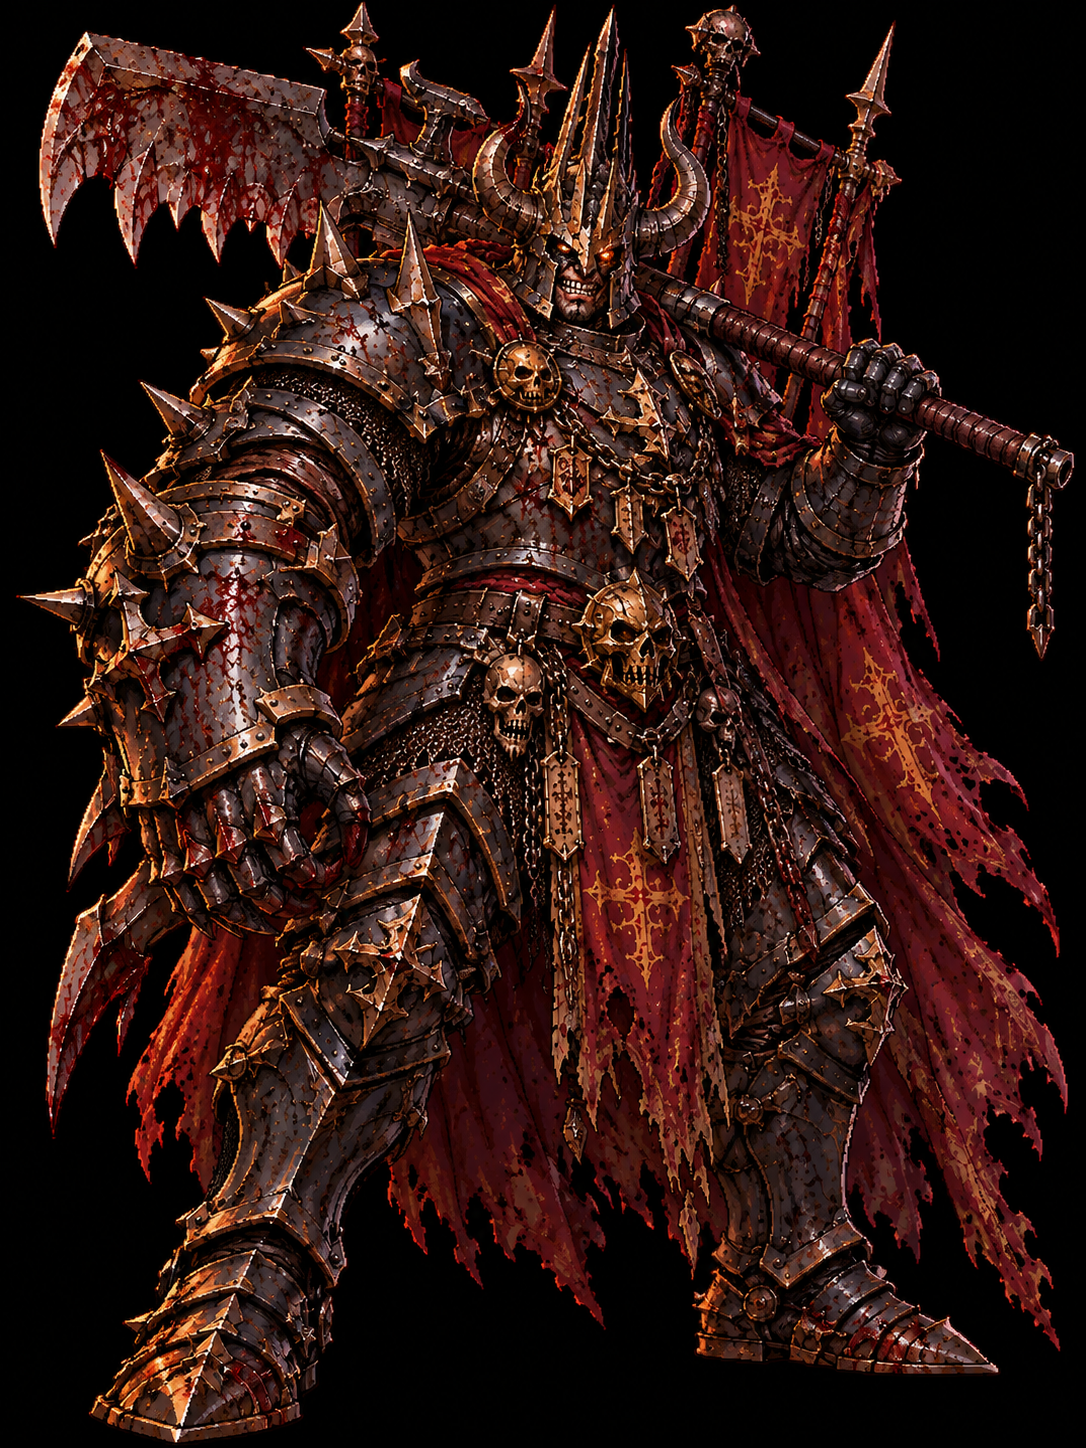
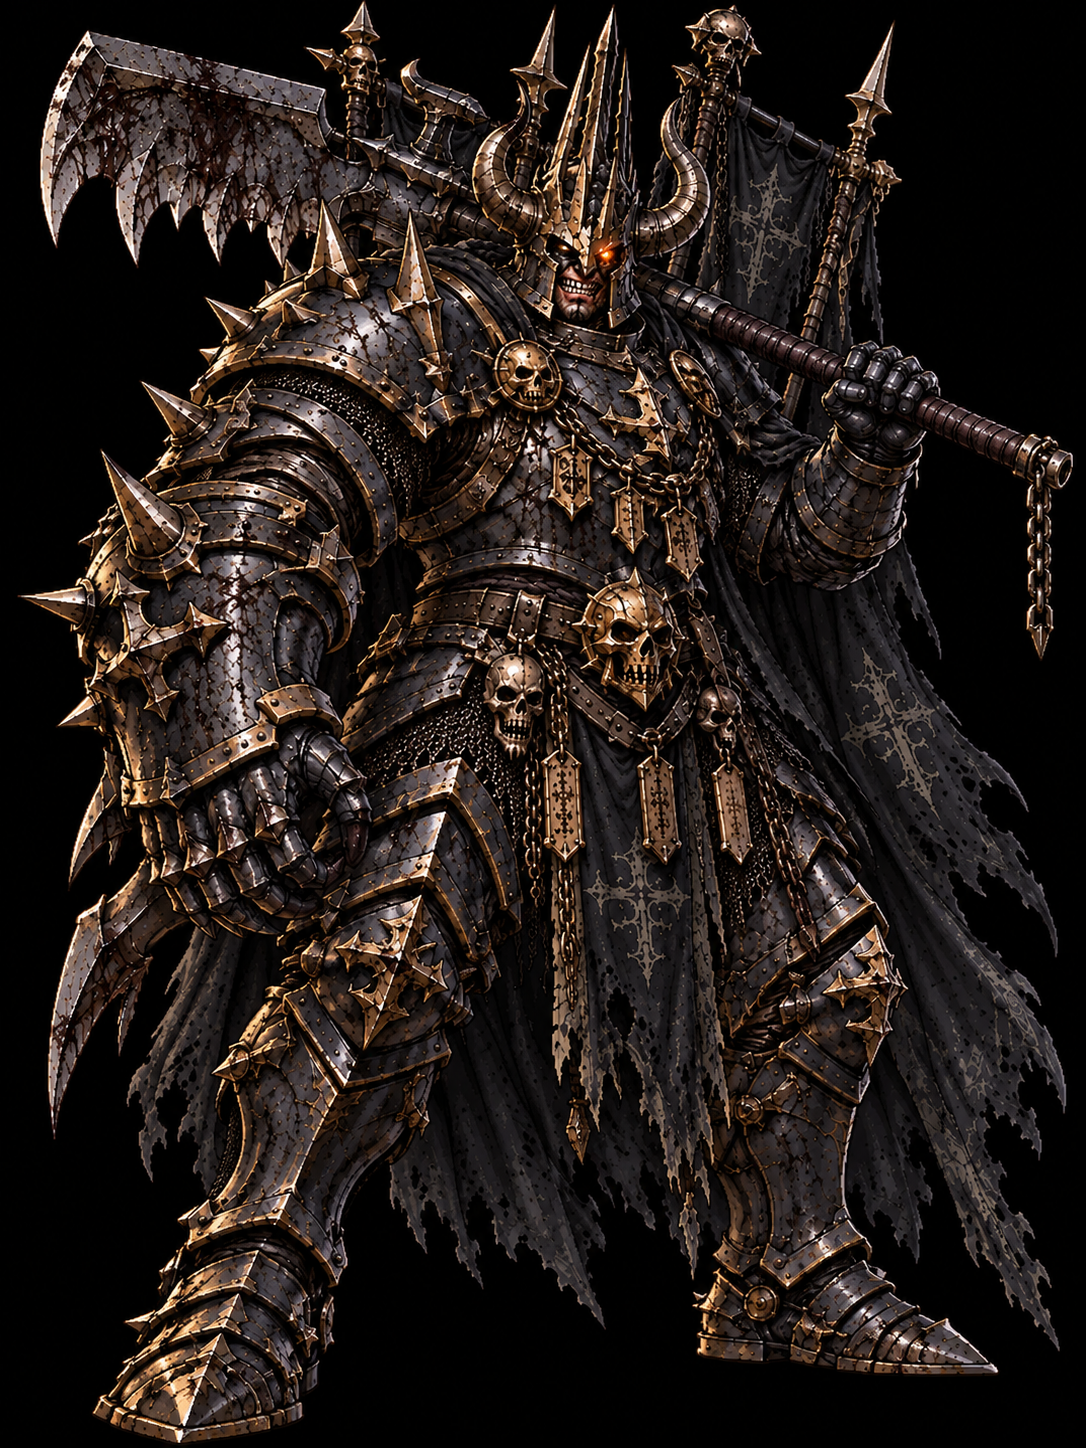
Boss groundwork: the Warlord's stats, moves and outsize frames (waiting on four strips); stage boss stays Kragg until then; hand-off notes

diff --git a/src/data/enemies.js b/src/data/enemies.js
@@ -1,4 +1,4 @@
-// enemies.js â€” Enemy stats, moves and AI tuning. Same stat format as characters.js
+// enemies.js â€” Enemy stats, moves and AI tuning. Same stat format as characters.js
 // (see the guide at the top of that file), plus:
 //
 //   art              which pixel-art rig draws it (view/enemyArt.js)
@@ -487,6 +487,73 @@ export const ENEMIES = {
       blockChance: 0.55, blockHold: [40, 80],
       specialEvery: 36,
       specials: [{ press: 'special1', min: 150, max: 260, chance: 0.4 }],
+    },
+  },
+
+  // =========================================================== 7. THE WARLORD
+  // Warlord-General of the Ashen Legion, the boss at the end of the road: nearly twice a
+  // man's height, a spiked gauntlet the size of a shield and a cleaver-glaive. Slow, but
+  // everything he does reaches far and hits like a falling wall. (Painted strips only:
+  // data/enemyStrips.js; cell: 2 = his frames are cut twice the usual size.)
+  warlord: {
+    ...BASE,
+    id: 'warlord',
+    name: 'Warlord Malgor',
+    title: 'General of the Ashen Legion',
+    art: 'gladiator', // (the hidden doll underneath: never drawn)
+    cell: 2,
+    body: { w: 92, h: 184 },
+    look: { color: 0x2a2a30, accent: 0xb08a4a, skin: 0x8a6a58 },
+
+    maxHealth: 240, maxStamina: 200,
+    walkSpeed: 84, depthSpeed: 62,
+    meleeMult: 1.0,
+    blockReduction: 0.9, guardEfficiency: 0.45,
+    knockdownFrames: 46, getupFrames: 26, staggerFrames: 40,
+
+    moves: {
+      light1: { // Gauntlet Backhand
+        anim: 'slash', cut: 'blunt',
+        startup: 13, active: 4, recovery: 18,
+        damage: 13, hitstun: 24, hitstop: 7, shake: 3,
+        knockback: { x: 200, y: 0 }, guardDamage: 18, lunge: 60,
+        hitbox: { x: 16, y: 60, w: 104, h: 76 },
+        chains: [{ button: 'attack', next: 'light2', from: 12, to: 34 }],
+      },
+      light2: { // Glaive Sweep: wide and level, clears the lane
+        anim: 'slash', cut: 'cleave',
+        startup: 15, active: 4, recovery: 24,
+        damage: 16, hitstun: 26, hitstop: 8, shake: 5,
+        knockback: { x: 300, y: 260 }, knockdown: true, guardDamage: 24, lunge: 70,
+        hitbox: { x: 10, y: 50, w: 156, h: 70, depth: 26 },
+      },
+      heavy: { // Headsman's Fall: the glaive straight down
+        anim: 'chop', cut: 'chop',
+        startup: 38, active: 4, recovery: 34,
+        damage: 32, hitstun: 32, hitstop: 12, shake: 9,
+        knockback: { x: 340, y: 380 }, knockdown: true, breaksGuard: true,
+        guardDamage: 50, lunge: 90,
+        hitbox: { x: 8, y: 0, w: 138, h: 176 },
+      },
+      special1: { // Bull Charge: the spiked shoulder, the length of the room
+        anim: 'bash', cut: 'blunt',
+        startup: 26, active: 18, recovery: 30,
+        damage: 18, hitstun: 38, hitstop: 9, shake: 7,
+        knockback: { x: 460, y: 260 }, knockdown: true, breaksGuard: true,
+        guardDamage: 50, lunge: 430,
+        hitbox: { x: 20, y: 20, w: 74, h: 150 },
+      },
+    },
+
+    ai: {
+      attackRange: 124, minRange: 60, alignZ: 14,
+      waitRange: 260, maxCrowd: 2,
+      threatRange: 200,
+      attackCooldown: [40, 85],
+      heavyChance: 0.3, comboChance: 0.5, comboLength: 1,
+      blockChance: 0.3, blockHold: [30, 60],
+      specialEvery: 30,
+      specials: [{ press: 'special1', min: 200, max: 420, chance: 0.5 }],
     },
   },
 };

diff --git a/src/scenes/BootScene.js b/src/scenes/BootScene.js
@@ -153,13 +153,16 @@ export class BootScene extends Phaser.Scene {
     const sheets = {};
     for (const [id, strips] of Object.entries(ENEMY_STRIPS)) {
       const target = Math.round((ENEMIES[id]?.body.h ?? 110) * 1.07); // Ulric: 108 body -> 116 art
+      const cell = ENEMIES[id]?.cell ?? 1;
       const have = new Set();
       let fw = 0; let fh = 0;
       for (const [name, s] of Object.entries(strips)) {
         const img = src(`estrip-${id}-${name}`);
         if (!img) continue;
         try {
-          const out = await this.cut(img, { target, ...s, res: RES }, null);
+          // (cell: an outsize enemy's frames are cut that many times the usual size, at
+          //  the same detail per pixel, so he fits his frame and stays as sharp as the rest)
+          const out = await this.cut(img, { target: target / cell, ...s, res: RES * cell }, null);
           const tk = `enemy-${id}-${name}`;
           if (this.textures.exists(tk)) this.textures.remove(tk);
           const tex = this.textures.addCanvas(tk, out.canvas);
@@ -181,7 +184,7 @@ export class BootScene extends Phaser.Scene {
       for (const side of ['B', 'F', 'N']) {
         if (have.has(`flee${side}`) && have.has(`cower${side}`)) scared[side] = scaredAnims(side);
       }
-      sheets[id] = { key: `enemy-${id}`, anims, scared, res: RES, fw, fh, ax: FRAME.AX * RES, ay: FRAME.AY * RES };
+      sheets[id] = { key: `enemy-${id}`, anims, scared, res: RES, fw, fh, ax: FRAME.AX * RES * cell, ay: FRAME.AY * RES * cell };
     }
     return sheets;
   }
@@ -214,7 +217,7 @@ export class BootScene extends Phaser.Scene {
       const anims = {};
       for (const [k, a] of Object.entries(HERO_ANIMS[id])) if (!a.needs || a.needs.every((n) => have.has(n))) anims[k] = a;
       if (anims.idleStrip) { anims.idle = anims.idleStrip; delete anims.idleStrip; }
-      sheets[id] = { key: `hero-${id}`, anims, res: RES, fw, fh, ax: FRAME.AX * RES, ay: FRAME.AY * RES };
+      sheets[id] = { key: `hero-${id}`, anims, res: RES, fw, fh, ax: FRAME.AX * RES * cell, ay: FRAME.AY * RES * cell };
     }
     return sheets;
   }

diff --git a/src/data/stage.js b/src/data/stage.js
@@ -10,7 +10,7 @@
 //   3 THE BLOODY NAVE       swinging pendulum blades over their lanes;  (hazard 2)
 //                           maim-and-execute runners; a cracked wall hides a shrine (secret)
 //   4 THE OSSUARY           fire AND blades, elites; urns hide a relic   (combination)
-//   5 THRONE OF THE OATHBREAKER   the boss: Pitlord Kragg, the Oathbreaker
+//   5 THRONE OF THE OATHBREAKER   the boss: Warlord Malgor, the Oathbreaker (Pitlord Kragg comes when he rages)
 //
 // Positions are in world px. z = depth on the floor (282 back .. 520 front: SETTINGS.world).
 // waves: line-ups spawned one after another (the next when the last is dead).
@@ -87,7 +87,7 @@ export const STAGE = {
       id: 'throne', name: 'THRONE OF THE OATHBREAKER', x0: 4600, x1: 5600, ground: 'cathedral',
       light: 0xff3030, mood: 0.32,
       objective: 'Kill Pitlord Kragg',
-      boss: { type: 'gladiator', name: 'Pitlord Kragg, the Oathbreaker', health: 4, damage: 1.25, adds: ['grunt', 'grunt', 'stalker'] },
+      boss: { type: 'gladiator', name: 'Pitlord Kragg, the Oathbreaker', health: 4, damage: 1.25, adds: ['grunt', 'grunt', 'stalker'] }, // (the Warlord takes over once his strips are all drawn: see docs/cloud-handoff.md)
       waves: [],
       props: [{ kind: 'barrel', x: 4780, z: 501, drop: 'meat' }],
       hazards: [],

diff --git a/src/data/enemyStrips.js b/src/data/enemyStrips.js
@@ -91,6 +91,9 @@ export const ENEMY_STRIPS = {
   }),
   penitent: set('penitent'),
   ghoul: set('ghoul'),
+  // the boss: painted on magenta (his black cape would vanish into a black background),
+  // and the standard six strips only (he can't be maimed, so no scared sets)
+  warlord: Object.fromEntries(['walk', 'react', 'atk1', 'atk2', 'heavy', 'special'].map((n) => [n, { ...set('warlord')[n], bg: 'magenta' }])),
 };
 
 const seq = (strip, ids) => ids.map((i) => `${strip}:${i}`);
@@ -150,6 +153,12 @@ export const ENEMY_ANIMS = {
     ...COMMON,
     light1: quick('atk1'), light2: quick('atk2'), heavy: big('heavy'),
     special1: { needs: ['special'], phases: { startup: seq('special', [0, 1]), active: seq('special', [2, 3, 4, 5, 2, 3, 4, 5]), recovery: seq('special', [1, 0]) } },
+  },
+  warlord: {
+    ...COMMON,
+    light1: quick('atk1'), light2: quick('atk2'), heavy: big('heavy'),
+    // Bull Charge: 0 ready, 1 crouch and roar, 2-4 charging, 5 the impact
+    special1: { needs: ['special'], phases: { startup: seq('special', [0, 1, 1]), active: seq('special', [2, 3, 4, 2, 3, 4, 5]), recovery: seq('special', [5, 5, 1]) } },
   },
   gladiator: {
     ...COMMON,

diff --git a/docs/cloud-handoff.md b/docs/cloud-handoff.md
@@ -119,3 +119,13 @@ Not drawn (the user stopped the batch here): `rogue_runD`, `rogue_finPhantom`, `
 - Mage: jump 470 -> 575 (about 130 px, just under the Rogue's: a test requires hers to be the highest). Air blink and air attack already worked; checked in the running game.
 - Rogue: Shuriken Fan moved from magic (LB) to kick (RT / O) in the air (`states.airKick`).
 - 89 logic tests pass.
+
+## Local session, 3 October 2026 (later): stopped mid-boss because the user ran low on usage
+
+Done and pushed (not on itch): sprint for all heroes (left-stick click / C), Rogue shuriken spam on kick, fire-pit blaze kept inside the grate, online version check (`src/net/Version.js`, shown in the lobby, part of the room name), new hero strips wired (sprints, Mage jump + finishers, Rogue front run + finishers). 91 logic tests pass.
+
+**The boss (unfinished).** Approved design: `docs/art-refs/boss_ref.png` (black cape and banners; the user asked for black instead of red). Chat: "Boss Design Description" 6abfc110-bc60-83e9-968a-1b52efb55443 (Bloody Axe project).
+- `ENEMIES.warlord` ("Warlord Malgor": stats, four moves, AI), `ENEMY_STRIPS.warlord` (on magenta), `ENEMY_ANIMS.warlord` and the `cell: 2` outsize-frame support in `BootScene.buildEnemyStrips` are written but **never run**: he has only `warlord_walk.png` and `warlord_react.png`. `warlord_atk1` was requested and is sitting in the chat uncollected; `atk2`, `heavy`, `special` are not requested yet (prompts: same wording as the first three, attach `boss_ref.png` every time, magenta background).
+- The stage boss is back on Pitlord Kragg until the six strips are in. Then set the throne section's boss to `{ type: 'warlord', name: 'Warlord Malgor, the Oathbreaker', ... }` in `src/data/stage.js` and check him in the game (size, the 6656-px-wide walk texture, cut-out edges).
+- Still to build, in the user's words: boss battle music "comes on as the boss slowly walks onto the screen, pounding his feet as he goes, everything shakes, the main characters are frozen in place for a few seconds as he comes out, give him hella hp, and dont spawn helpers in until halfway through his health he will call for help". (Helpers already only come at half health: `bossRage`.) Plan that was about to be written: a `Fighter.awe` freeze counter beside hitstop, `Stage.spawnBoss` putting him off the right edge and walking him in for ~4 s with `bossStomp` events (shake + thud), `playMusic(this, 'boss')` on `bossSpawn`, stage boss `health` around 6.
+- The music file the user gave is `C:\Users\nickr\Downloads\06. Nightmare (Legend of Zelda - Link's Awakening) - Lights Out.mp3`. It is not copied into the repo. It is a cover of Nintendo music: the user should decide whether to ship it on a public itch page.
